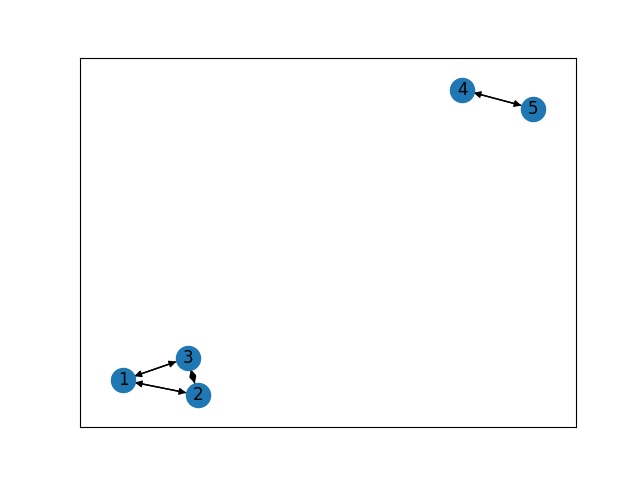
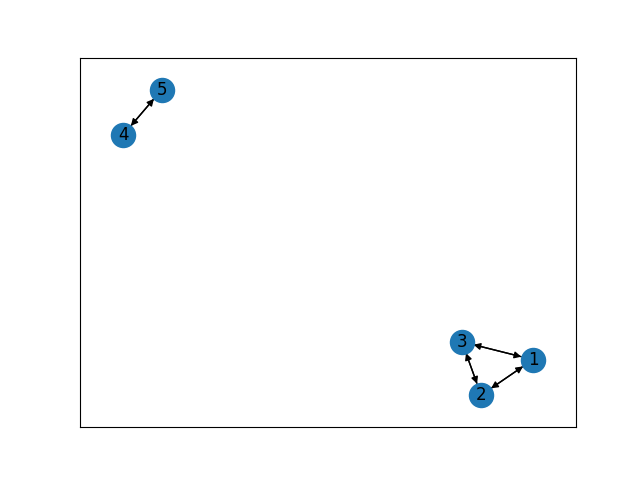
representacoes funcionando

diff --git a/main.py b/main.py
@@ -28,6 +28,7 @@ def janelaRepresentacoes():
     ]
 
     outputRepresentacao = [
+        [sg.Image(key='image')],
         [sg.Text(size=(60, 10), key='texto')]
     ]
     
@@ -47,11 +48,22 @@ def janelaRepresentacoes():
             representacoesWindow.close()
             break
         elif event == 'matriz':
-            print('matriz')
+            representacoesWindow['image'].update(filename=None)
+            matriz = nx.adjacency_matrix(G).todense()
+            representacoesWindow['texto'].update(value=matriz)
         elif event == 'grafica':
-            print('grafica')
+            representacoesWindow['texto'].update(value='')
+            representacoesWindow['image'].update(filename="grafo.png")
         elif event == 'lista':
-            print('lista')
+            representacoesWindow['image'].update(filename=None)
+            listaDeAdjacencia = ""
+            for vertice in vertices:
+                try:
+                    listaDeAdjacencia += f"{vertice} -> {list(G[vertice].keys())} \n"
+                except:
+                    listaDeAdjacencia += f"O vértice {vertice} não possui conexao com outro vertice"
+            representacoesWindow['texto'].update(value=listaDeAdjacencia)
+
             
 def janelaOperacoes():
 
@@ -212,7 +224,10 @@ while True:
         print(event)
     
     elif event == 'representacoes':
-        janelaRepresentacoes()
+        if(G):
+            janelaRepresentacoes()
+        else:
+            sg.popup("Leia um grafo para ver as representações!")
 
     elif event == 'operacoes':
         janelaOperacoes()
@@ -226,9 +241,11 @@ while True:
             window['texto'].update(value=text)
         else:
             print(f'Arquivo Escolhido: {values["-IN-"]}')
-            vertices, arestas = ler_grafo(values['-IN-'], values['nao_direcionado'])
-            G = Grafo(arestas)
+            try:
+                vertices, arestas = ler_grafo(values['-IN-'], values['nao_direcionado'])
+                G = Grafo(arestas)
+                sg.popup("Grafo lido com sucesso!")
+            except:
+                sg.popup("Erro ao ler grafo")
             # window['image'].update(filename="grafo.png")
-                
-           
             window['texto'].update(value=arestas)
